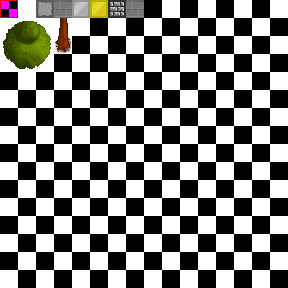
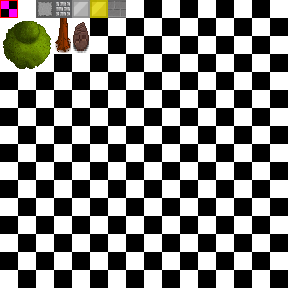
[Common] Tried making boulder...

Changed region(s): [[0.375, 0.0, 0.5, 0.0625], [0.25, 0.0625, 0.3125, 0.1875], [0.1875, 0.0, 0.25, 0.0625]]

diff --git a/common-source/Blocks/GameBlocks.cpp b/common-source/Blocks/GameBlocks.cpp
@@ -9,6 +9,7 @@ Block const * const GameBlocks::STONE           = new BlockStone();
 Block const * const GameBlocks::STONE_BRICKS    = new BlockStoneBricks;
 Block const * const GameBlocks::IRON            = new BlockIron();
 Block const * const GameBlocks::GOLD            = new BlockGold();
+Block const * const GameBlocks::BOULDER         = new BlockBoulder();
 
 GameBlocks::GameBlocks()
 {
@@ -32,6 +33,7 @@ void GameBlocks::initBlocks()
     addBlock(STONE_BRICKS);
     addBlock(IRON);
     addBlock(GOLD);
+    addBlock(BOULDER);
 }
 
 void GameBlocks::addBlock(Block const * block)

diff --git a/common-source/Blocks/GameBlocks.h b/common-source/Blocks/GameBlocks.h
@@ -8,6 +8,7 @@
 #include "GameBlocks/BlockStoneBricks.h"
 #include "GameBlocks/BlockIron.h"
 #include "GameBlocks/BlockGold.h"
+#include "GameBlocks/BlockBoulder.h"
 
 #include <vector>
 #include <unordered_map>
@@ -46,6 +47,7 @@ class GameBlocks
         static Block const * const STONE_BRICKS;
         static Block const * const IRON;
         static Block const * const GOLD;
+        static Block const * const BOULDER;
 
     private:
         std::vector<Block const *> blocks;

diff --git a/common-source/Blocks/GameBlocks/BlockBoulder.h b/common-source/Blocks/GameBlocks/BlockBoulder.h
@@ -1,0 +1,19 @@
+#pragma once
+
+#include "../Block.h"
+
+class BlockBoulder : public Block
+{
+    public:
+        BlockBoulder();
+        virtual ~BlockBoulder();
+
+    protected:
+        #ifdef CLIENT_SIDE
+        inline bool occults(BlockInfo info) const override { return false; }
+        inline uint32_t getSideTextureNumber(BlockInfo info) const override { return 36; }
+        inline bool darkenSide() const override { return false; }
+        #endif
+    private:
+};
+

diff --git a/server-source/World/Generators/NaturalGenerator.cpp b/server-source/World/Generators/NaturalGenerator.cpp
@@ -49,7 +49,10 @@ void NaturalGenerator::generateChunk(Chunk* chunk)
 
             if (perlin_value < 0.)
                 perlin_value = 0.;
-            //std::cout << perlinValue << std::endl;
+
+            if (std::round(perlin_value) >= 4 && std::rand() % 20 == 0)
+                chunk->setBlock(x, y, GameBlocks::BOULDER);
+
             chunk->setGround(x, y, ground_levels.at(std::round(perlin_value)));
         }
     }

diff --git a/common-source/Entities/GameEntities/Player.cpp b/common-source/Entities/GameEntities/Player.cpp
@@ -159,6 +159,8 @@ bool Player::takeNewEntityPacket(sf::Packet& packet)
         pants.setFillColor(sf::Color(outfit_colors[1]));
         shirt.setFillColor(sf::Color(outfit_colors[2]));
     }
+
+    return true;
 }
 #else
 void Player::takePlayerActionPacket(sf::Packet& packet)

diff --git a/common-source/Blocks/GameBlocks/BlockBoulder.cpp b/common-source/Blocks/GameBlocks/BlockBoulder.cpp
@@ -1,0 +1,12 @@
+#include "BlockBoulder.h"
+
+BlockBoulder::BlockBoulder() :
+    Block("boulder", true, 20)
+{
+    //ctor
+}
+
+BlockBoulder::~BlockBoulder()
+{
+    //dtor
+}
